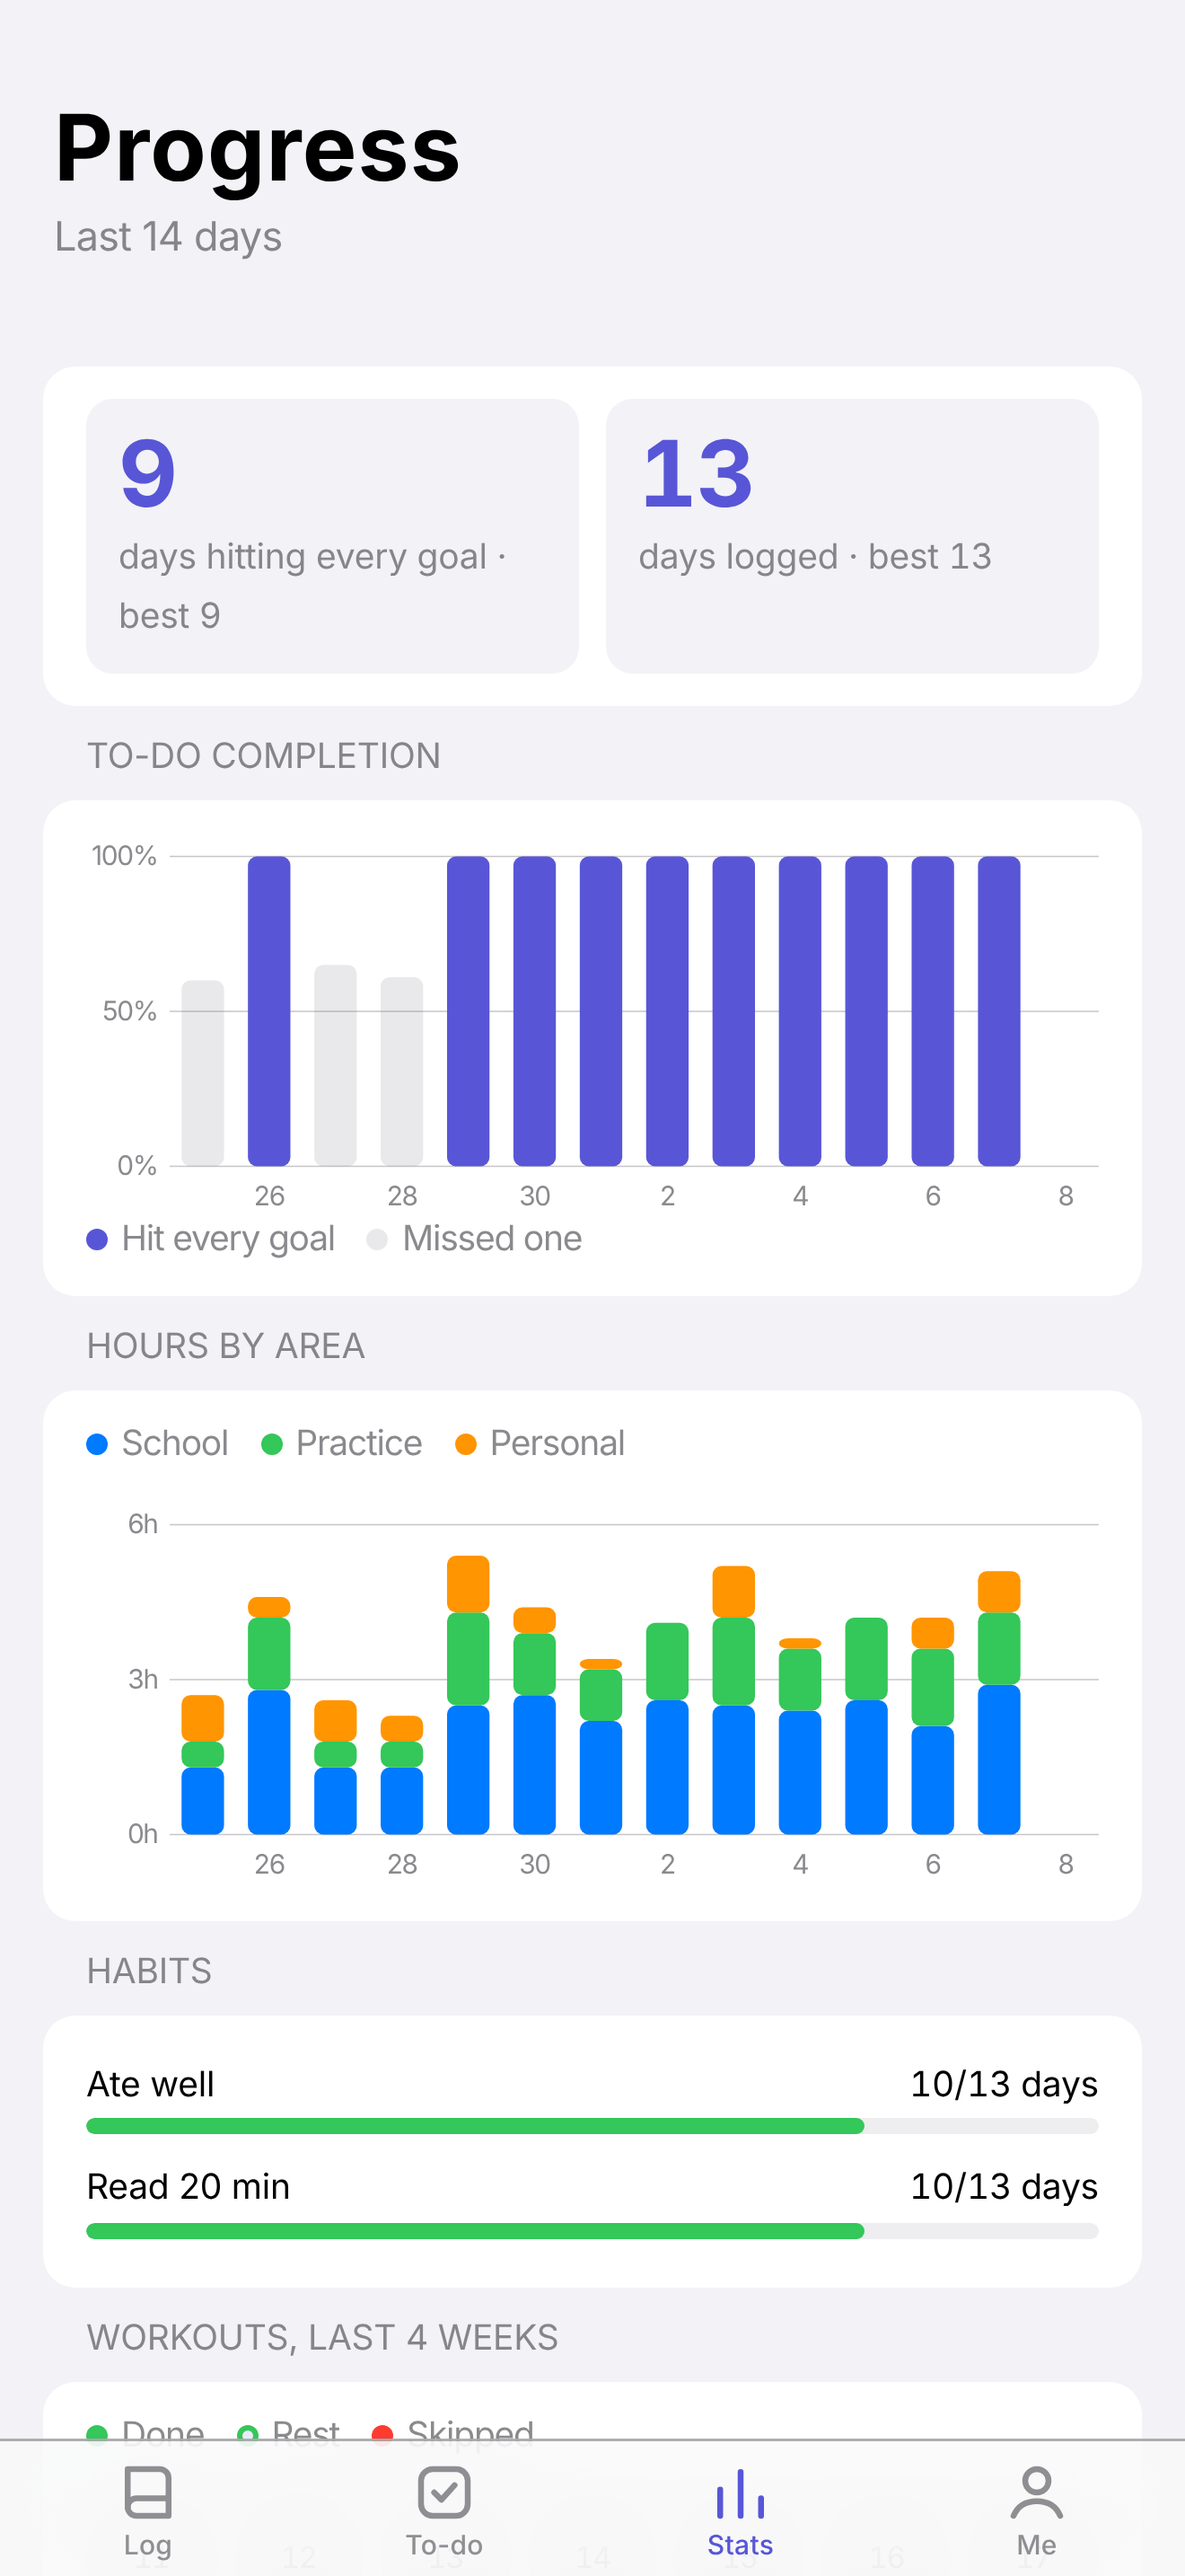
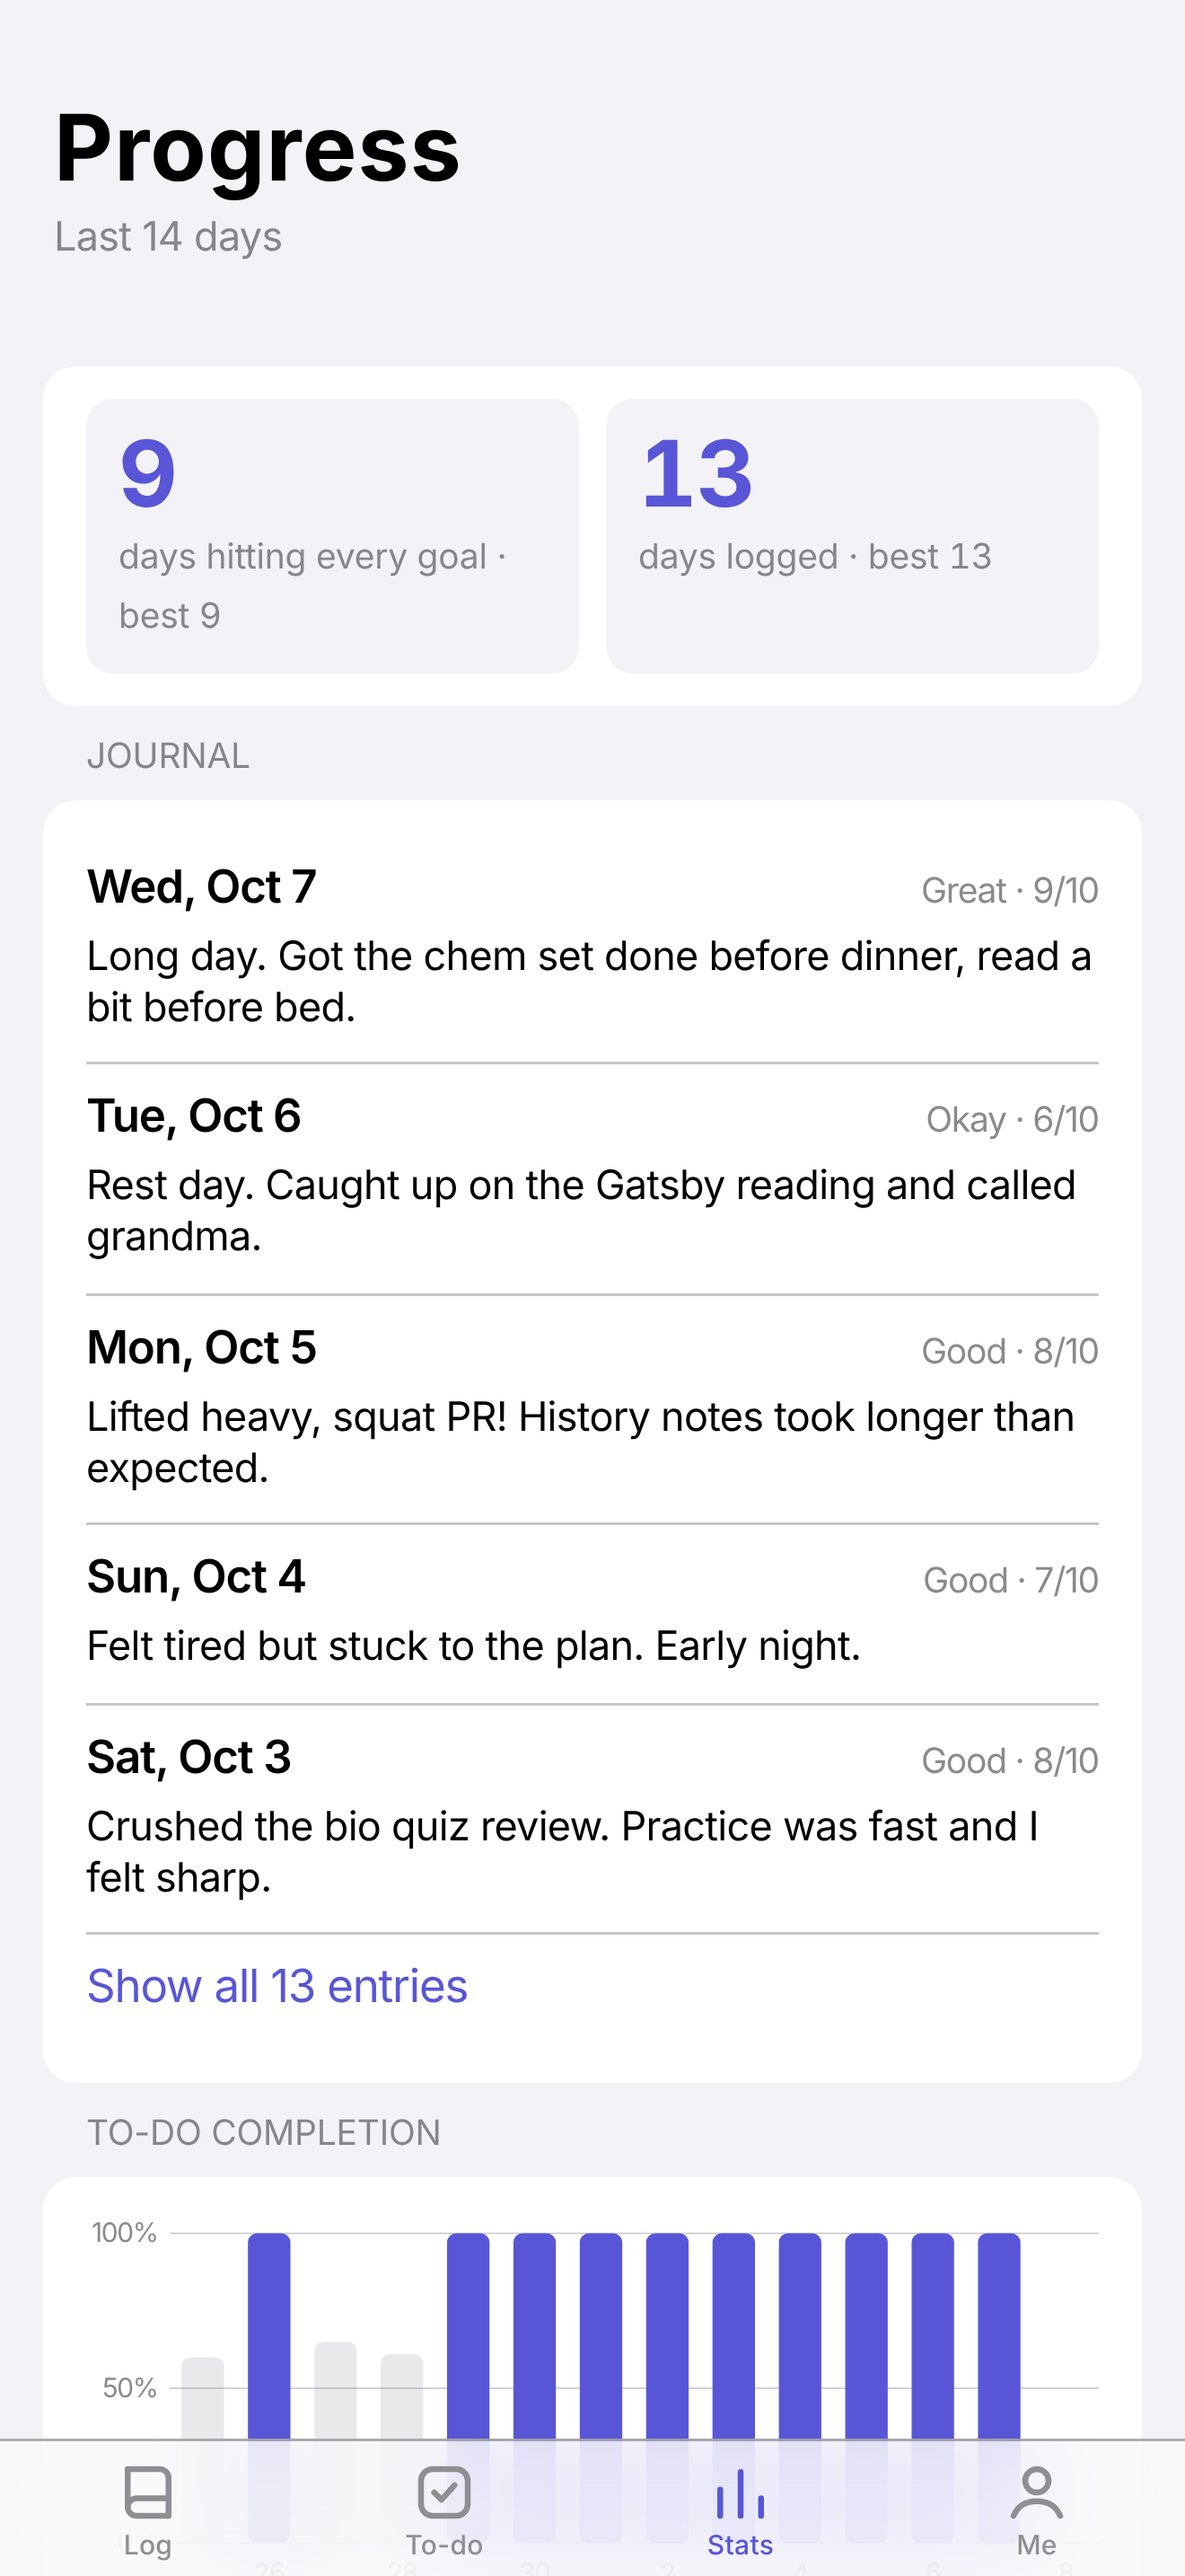
Journal history on Progress tab (tap a day to open it); refreshed store screenshots
Claude-Session: https://claude.ai/code/session_017cPXXGBkdv3STvGswMMRiP

diff --git a/app.js b/app.js
@@ -356,8 +356,25 @@ function renderStats(){
   $("sleepStat").hidden=!c.track.sleep;$("moodStat").hidden=!c.track.mood;
   $("chSleep").innerHTML=sl.some(v=>v!=null)?lineChart(lab,sl,{min:4,max:Math.max(10,...sl.filter(v=>v!=null)),unit:"h",color:"var(--blue)"}):emptyChart("No sleep logged yet.");
   $("chMood").innerHTML=md.some(v=>v!=null)?lineChart(lab,md,{min:1,max:10,color:"var(--orange)"}):emptyChart("No mood ratings yet.");
-  renderLift();renderGradeStats();renderHabitStats();
+  renderLift();renderGradeStats();renderHabitStats();renderJournal();
 }
+let journalAll=false;
+const MOOD_FACE=m=>m==null?"":m>=9?"Great":m>=7?"Good":m>=5?"Okay":m>=3?"Low":"Rough";
+function renderJournal(){
+  const days=Object.keys(S.logs).filter(d=>S.logs[d]&&(S.logs[d].note||S.logs[d].mood!=null)).sort().reverse();
+  if(!days.length){$("journalList").innerHTML=`<div class="empty">Your journal entries will show up here. Write a few lines in today's log tonight.</div>`;return}
+  const shown=journalAll?days:days.slice(0,5);
+  $("journalList").innerHTML=shown.map(d=>{const l=S.logs[d],dt=parse(d);
+    const date=dt.toLocaleDateString(undefined,{weekday:"short",month:"short",day:"numeric"});
+    const note=(l.note||"").trim();
+    return`<button type="button" class="jrow" data-jday="${d}"><div class="jtop"><span class="jdate">${esc(date)}</span>${l.mood!=null?`<span class="jmood">${esc(MOOD_FACE(l.mood))} · ${l.mood}/10</span>`:""}</div>${note?`<div class="jnote">${esc(note)}</div>`:`<div class="jnote muted">No journal entry</div>`}</button>`}).join("")
+    +(days.length>5?`<button type="button" class="more" id="journalMore">${journalAll?"Show less":"Show all "+days.length+" entries"}</button>`:"");
+}
+$("journalList").addEventListener("click",e=>{
+  if(e.target.closest("#journalMore")){journalAll=!journalAll;renderJournal();return}
+  const r=e.target.closest("[data-jday]");if(!r)return;
+  curDate=r.dataset.jday;fillForm();showTab("log");
+});
 function renderHabitStats(){
   const hs=cfg().habits,days=lastDays(14);
   $("habitStat").hidden=!hs.length;

diff --git a/style.css b/style.css
@@ -247,3 +247,12 @@ nav.tabs button[aria-selected="true"] svg{fill:var(--tint-soft)}
 .spinner{width:28px;height:28px;border-radius:50%;border:3px solid var(--fill2);border-top-color:var(--tint);animation:spin .8s linear infinite}
 @keyframes spin{to{transform:rotate(360deg)}}
 @media (prefers-reduced-motion:reduce){.spinner{animation:none}}
+
+/* journal history (Progress tab) */
+.jrow{display:block;width:100%;text-align:left;padding:11px 0;position:relative}
+.jrow+.jrow::before,.jrow+.more::before{content:"";position:absolute;left:0;right:0;top:0;height:.5px;background:var(--sep)}
+.jtop{display:flex;justify-content:space-between;gap:10px;align-items:baseline}
+.jdate{font-size:17px;font-weight:600}
+.jmood{font-size:13px;color:var(--label2);flex:none}
+.jnote{font-size:15px;color:var(--label);margin-top:3px;display:-webkit-box;-webkit-line-clamp:2;-webkit-box-orient:vertical;overflow:hidden;letter-spacing:-.24px}
+#journalList .more{position:relative;padding-left:0}

diff --git a/sw.js b/sw.js
@@ -1,6 +1,6 @@
 /* Network-first for the app's own files so updates show up on the next open;
    falls back to the cached copy when offline. GitHub API calls are never cached. */
-const CACHE = "journal-junkie-v4";
+const CACHE = "journal-junkie-v5";
 const SHELL = ["./", "index.html", "style.css", "store.js", "app.js", "manifest.webmanifest", "icons/icon-192.png", "icons/apple-touch-icon.png", "config.js"];
 self.addEventListener("install", e => { e.waitUntil(caches.open(CACHE).then(c => c.addAll(SHELL)).then(() => self.skipWaiting())); });
 self.addEventListener("activate", e => { e.waitUntil(caches.keys().then(ks => Promise.all(ks.filter(k => k !== CACHE).map(k => caches.delete(k)))).then(() => self.clients.claim())); });

diff --git a/index.html b/index.html
@@ -112,6 +112,7 @@
       <div class="streak"><b id="stGoal2">0</b><span>days hitting every goal · best <span id="bestGoal" class="num">0</span></span></div>
       <div class="streak"><b id="stLog2">0</b><span>days logged · best <span id="bestLog" class="num">0</span></span></div>
     </div></section>
+    <section id="journalSec"><h2>Journal</h2><div id="journalList"></div></section>
     <section><h2>To-do completion</h2><div id="chComp"></div></section>
     <section><h2>Hours by area</h2><div class="legend" id="hoursLegend"></div><div id="chHours"></div></section>
     <section id="habitStat"><h2>Habits</h2><div id="habitBox"></div></section>
